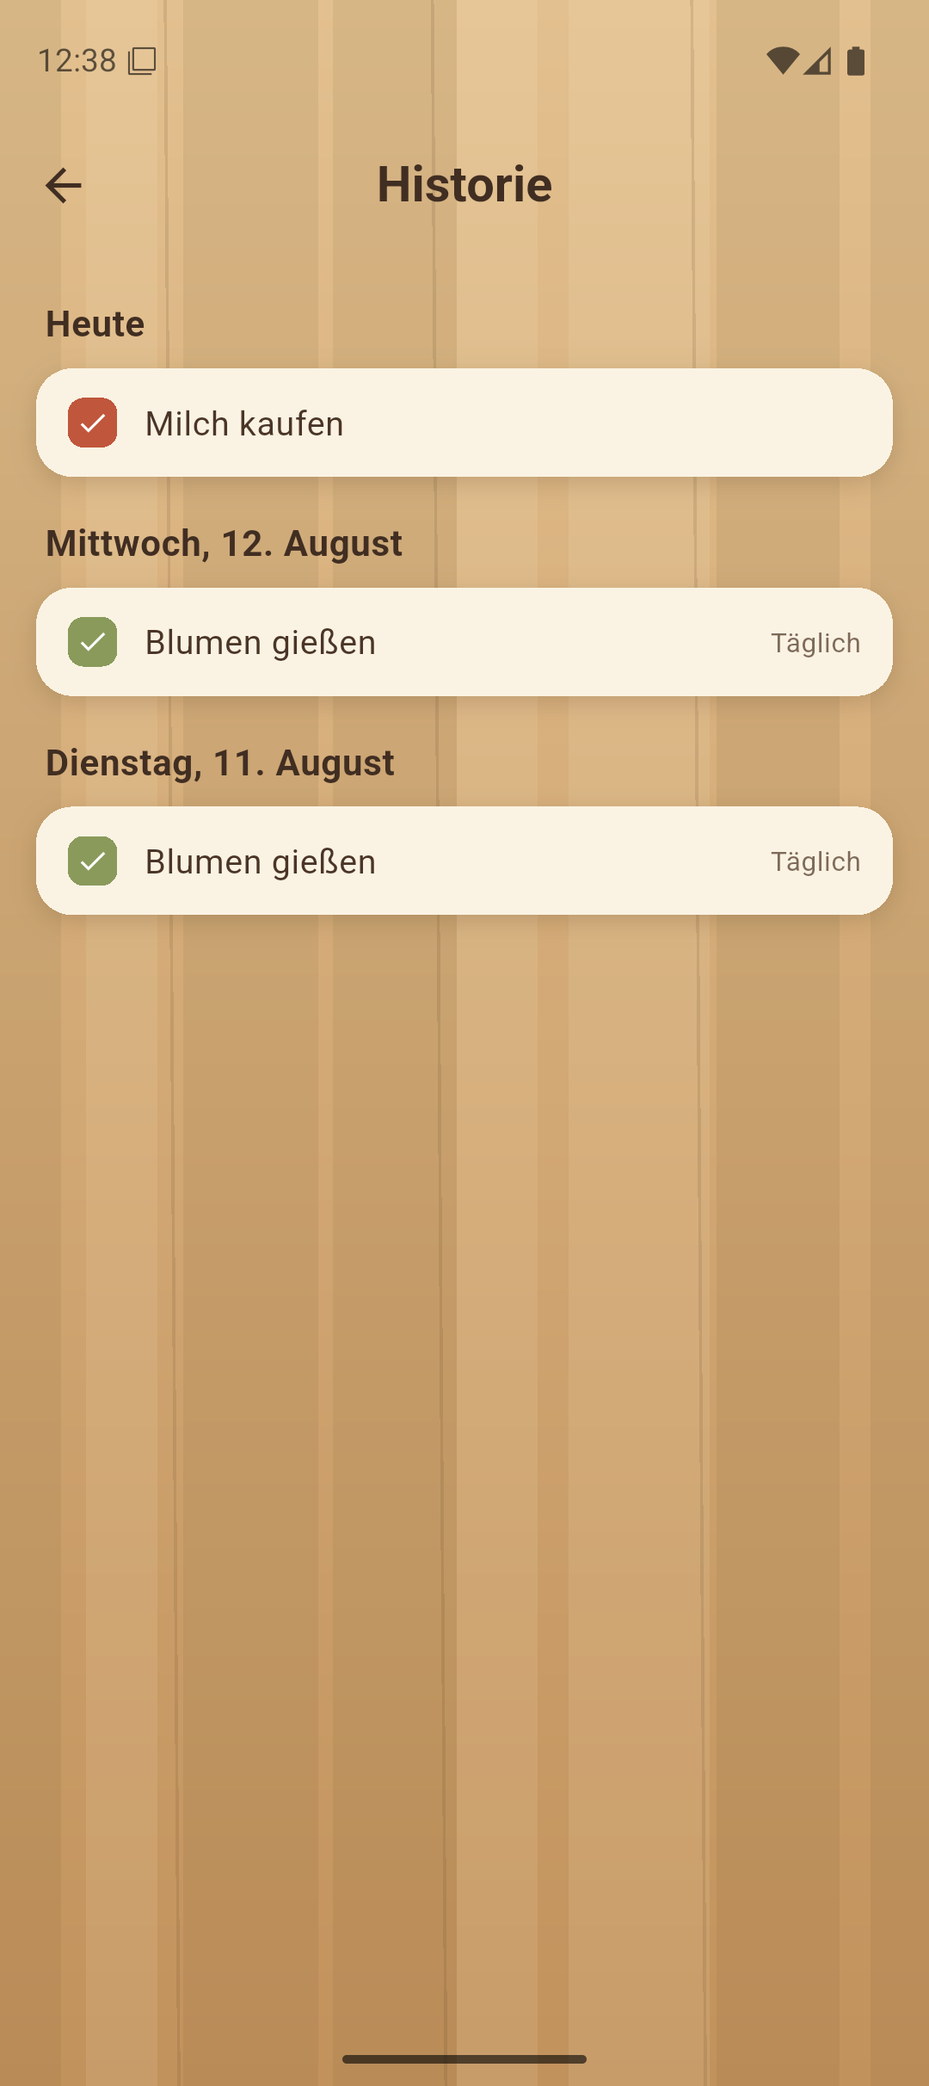
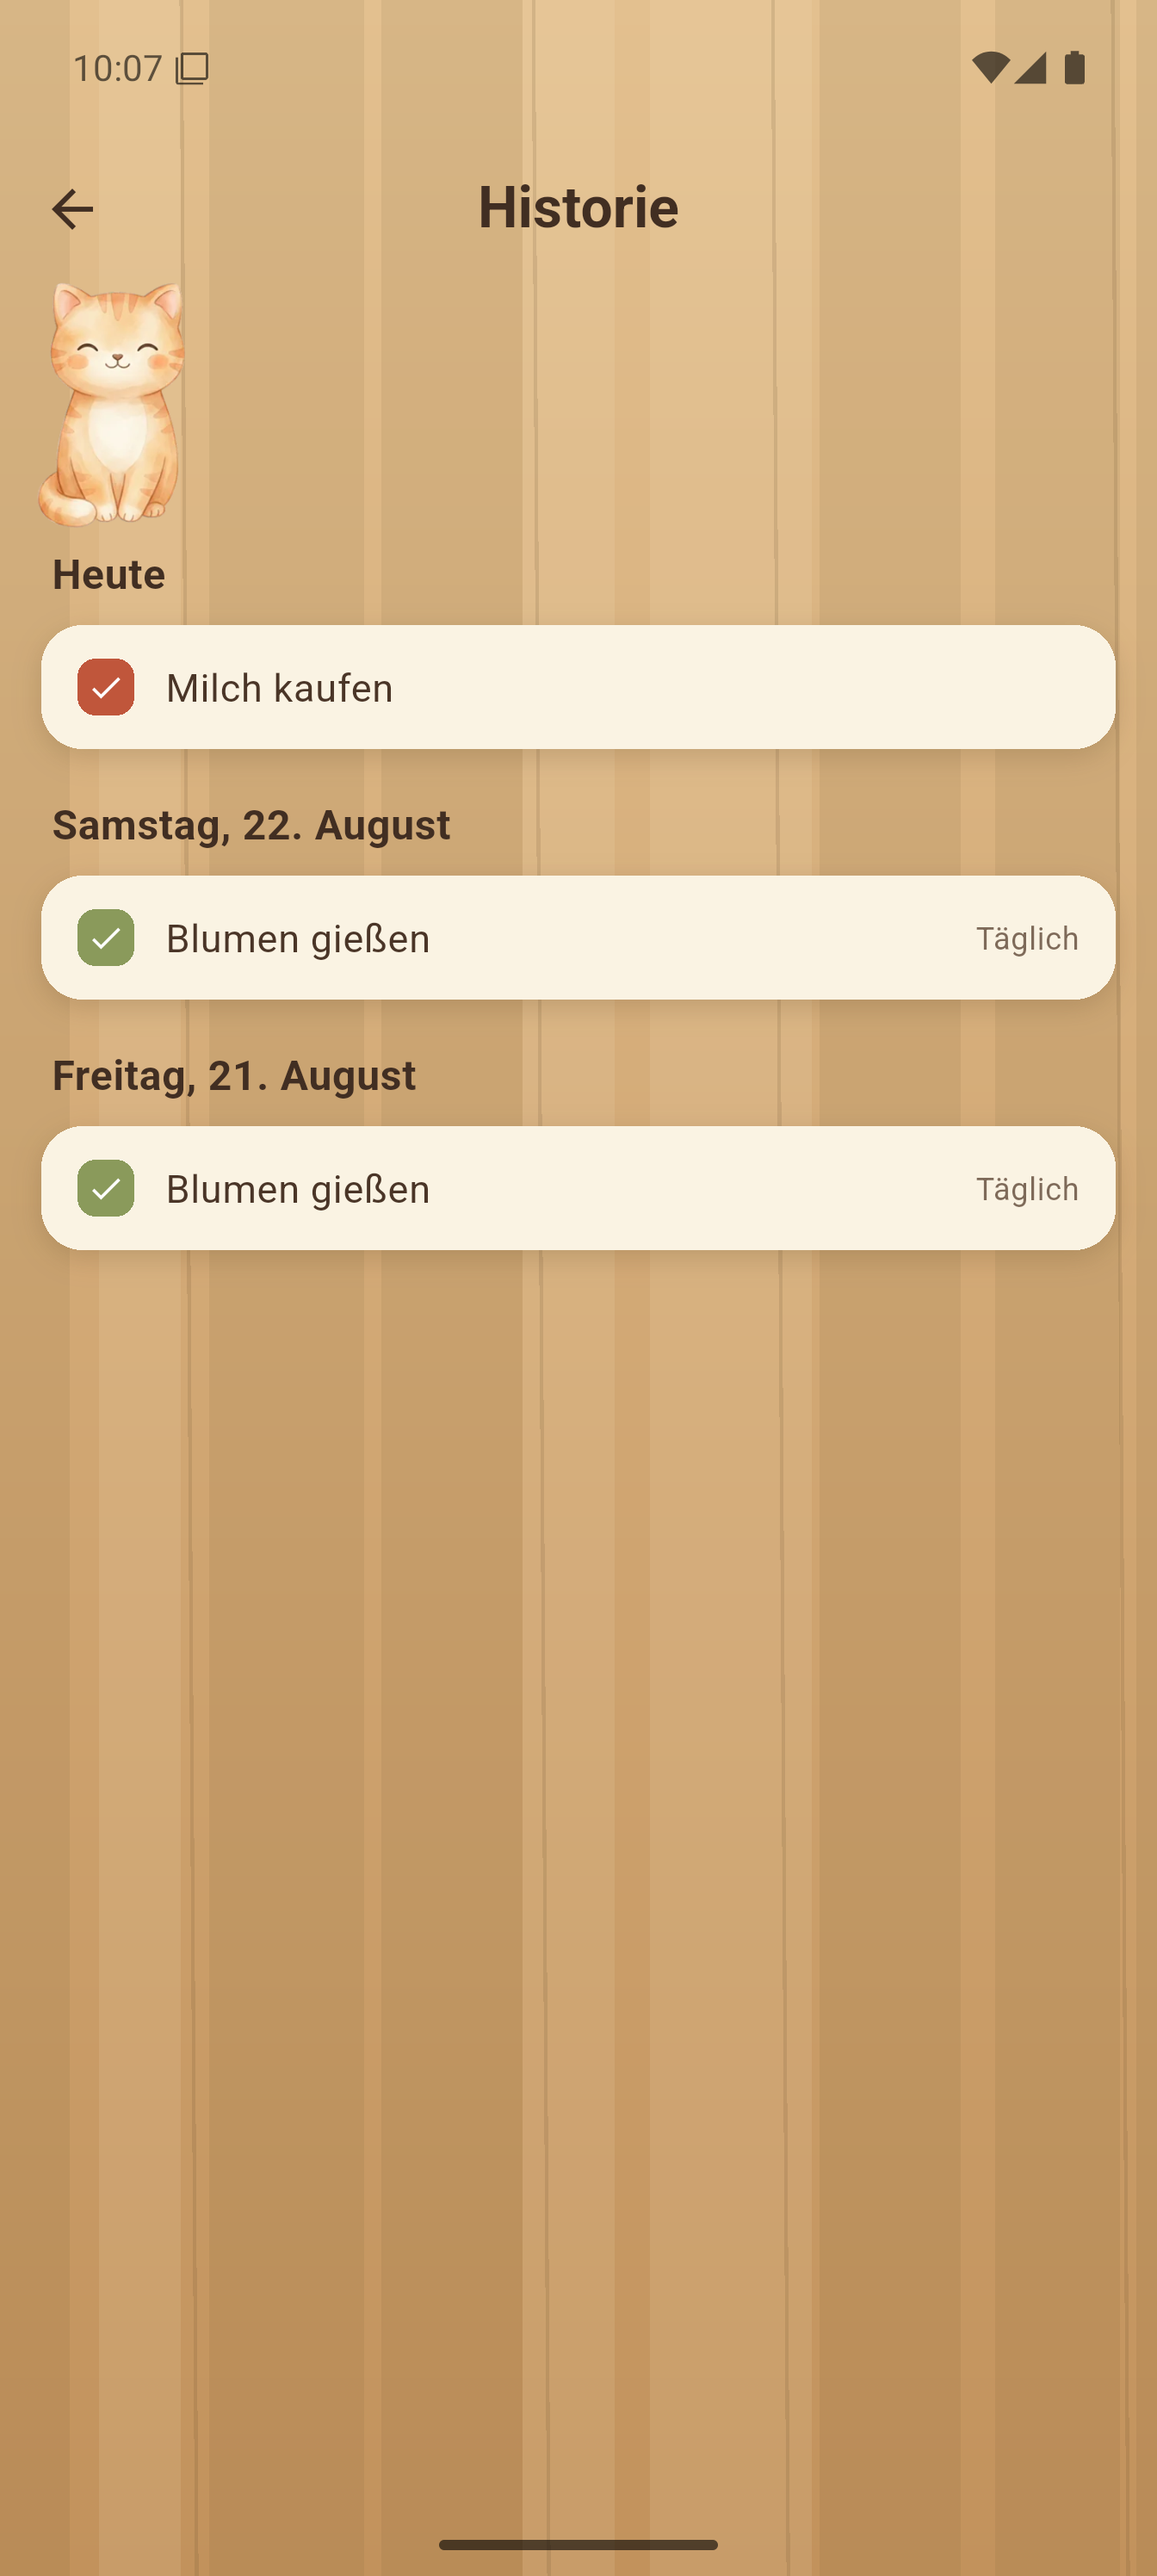
joe-todo: Leere Zustaende stehen auf Papier
Joe malt seinen Hintergrund selbst - vier gemalte Texturen und elf Fotos.
Damit gibt es genau zwei Sorten Text: auf einer PaperCard, dort gilt die
Tintenfarbe des Designs, oder frei auf dem Hintergrund, dort gilt onBg samt
Halo. Die Leer-Hinweise von Notizen und Historie standen frei auf dem
Hintergrund in der Tintenfarbe und waren auf dem Ozean-Design praktisch
nicht zu lesen.

Beide stehen jetzt auf einer Karte, wie die von Aufgaben, Terminen,
Kalender und Uebersicht. legibility_test prueft das fuer jeden leeren
Zustand und misst nebenbei den Kontrast von Tinte auf Papier fuer alle 15
Designs.

Claude-Session: https://claude.ai/code/session_01GTTHh3KS7ZpoGwavN3S3nZ

Changed region(s): [[0.0306, 0.0, 0.9778, 1.0], [0.825, 0.0, 0.9472, 0.0309], [0.0611, 0.0, 0.1833, 0.0309]]

diff --git a/software/joe-todo/app/test/legibility_test.dart b/software/joe-todo/app/test/legibility_test.dart
@@ -1,0 +1,129 @@
+import 'package:flutter/material.dart';
+import 'package:flutter_test/flutter_test.dart';
+
+import 'package:joe_todo/main.dart';
+import 'package:joe_todo/models.dart';
+import 'package:joe_todo/theme.dart';
+import 'package:joe_todo/widgets.dart';
+
+/// Lesbarkeit auf jedem Untergrund.
+///
+/// Joe malt seinen Hintergrund selbst – vier gemalte Texturen und elf Fotos.
+/// Damit gibt es genau zwei Sorten Text: auf einer [PaperCard] (dort gilt
+/// die Tintenfarbe des Designs) oder frei auf dem Hintergrund (dort gilt
+/// `theme.onBg` samt Halo). Wer die Tintenfarbe frei auf den Hintergrund
+/// setzt, bekommt auf einem Foto genau das, was uns aufgefallen ist: Text,
+/// der praktisch verschwindet – auf dem Ozean-Design war der Leer-Hinweis
+/// der Historie nicht mehr zu lesen.
+void main() {
+  Future<AppState> pump(WidgetTester tester, {AppState? state}) async {
+    tester.view.devicePixelRatio = 1;
+    tester.view.physicalSize = const Size(560, 1200);
+    addTearDown(tester.view.reset);
+
+    final appState = state ??
+        (AppState()
+          ..tasks = []
+          ..appointments = []
+          ..notes = []
+          ..showPet = false);
+    await tester.pumpWidget(JoeApp(state: appState));
+    await tester.pumpAndSettle();
+    return appState;
+  }
+
+  Future<void> open(WidgetTester tester, String tab) async {
+    await tester.tap(find.text(tab));
+    await tester.pumpAndSettle();
+  }
+
+  /// Ob [text] in einer PaperCard steht – also auf Papier und nicht auf dem
+  /// Hintergrundbild.
+  void expectOnPaper(WidgetTester tester, Finder text) {
+    expect(text, findsOneWidget);
+    expect(
+      find.ancestor(of: text, matching: find.byType(PaperCard)),
+      findsWidgets,
+      reason: 'Text ohne Karte auf dem Hintergrund – auf einem Foto-Design '
+          'waere er nicht zu lesen',
+    );
+  }
+
+  group('Leere Zustaende stehen auf Papier', () {
+    testWidgets('Aufgaben', (tester) async {
+      await pump(tester);
+      await open(tester, 'Aufgaben');
+      expectOnPaper(tester, find.textContaining('Noch keine Aufgaben'));
+    });
+
+    testWidgets('Termine', (tester) async {
+      await pump(tester);
+      await open(tester, 'Termine');
+      expectOnPaper(tester, find.textContaining('Noch keine Termine'));
+    });
+
+    testWidgets('Notizen', (tester) async {
+      await pump(tester);
+      await open(tester, 'Notizen');
+      expectOnPaper(tester, find.textContaining('Noch keine Notizen'));
+    });
+
+    testWidgets('Historie', (tester) async {
+      await pump(tester);
+      await open(tester, 'Historie');
+      expectOnPaper(tester, find.textContaining('Noch nichts erledigt'));
+    });
+
+    testWidgets('Dashboard: nichts zu tun, keine Termine', (tester) async {
+      await pump(tester);
+      expectOnPaper(tester, find.textContaining('Alles erledigt'));
+      expectOnPaper(tester, find.textContaining('Heute keine Termine'));
+    });
+
+    testWidgets('Kalender: leerer Tag', (tester) async {
+      await pump(tester);
+      await open(tester, 'Kalender');
+      expectOnPaper(tester, find.textContaining('Nichts eingetragen'));
+    });
+  });
+
+  group('Die Farben der Designs', () {
+    test('jedes Design trennt Papier, Tinte und Hintergrundtext', () {
+      for (final theme in joeThemes) {
+        // Auf dem Hintergrund gilt onBg – und die Foto-Designs bekommen
+        // zusaetzlich einen Halo, weil ein Foto hell *und* dunkel ist.
+        if (theme.backgroundAsset != null) {
+          expect(
+            theme.onBgShadows,
+            isNotEmpty,
+            reason: '${theme.name}: Text auf dem Foto braucht seinen Halo',
+          );
+        }
+        // Tinte auf Papier muss sich von der Papierfarbe abheben.
+        expect(
+          _contrast(theme.ink, theme.paper),
+          greaterThan(4.5),
+          reason: '${theme.name}: Tinte auf Papier zu blass',
+        );
+        // Die leise Tinte darf blasser sein, aber nicht beliebig: sie
+        // traegt Datumszeilen, "offen seit" und die Leer-Hinweise.
+        expect(
+          _contrast(theme.inkSoft, theme.paper),
+          greaterThan(3.0),
+          reason: '${theme.name}: leise Tinte auf Papier zu blass',
+        );
+      }
+    });
+  });
+}
+
+/// Kontrastverhaeltnis nach WCAG (1 = gleich, 21 = Schwarz auf Weiss).
+double _contrast(Color a, Color b) {
+  final la = _luminance(a);
+  final lb = _luminance(b);
+  final hell = la > lb ? la : lb;
+  final dunkel = la > lb ? lb : la;
+  return (hell + 0.05) / (dunkel + 0.05);
+}
+
+double _luminance(Color c) => Color(c.toARGB32()).computeLuminance();

diff --git a/software/joe-todo/app/lib/screens/notes.dart b/software/joe-todo/app/lib/screens/notes.dart
@@ -14,23 +14,56 @@ class NotesScreen extends StatelessWidget {
 
   @override
   Widget build(BuildContext context) {
+    const page = PetPage.notes;
+    final theme = joeThemeOf(context);
+
+    return JoeScaffold(
+      page: page,
+      title: 'Notizen',
+      body: SafeArea(child: _notesList(context, page)),
+      floatingActionButton: FloatingActionButton(
+        backgroundColor: theme.accent,
+        foregroundColor: Colors.white,
+        tooltip: 'Neue Notiz',
+        onPressed: () => _openNote(context, null),
+        child: const Icon(Icons.edit_outlined),
+      ),
+    );
+  }
+
+  Widget _notesList(BuildContext context, PetPage page) {
     final state = AppScope.of(context);
     final theme = joeThemeOf(context);
     final notes = state.notes;
 
-    return JoeScaffold(
-      title: 'Notizen',
-      body: SafeArea(
-        child: notes.isEmpty
-            ? Center(
-                child: Text(
-                  'Noch keine Notizen.\nTippe auf den Stift, um loszulegen.',
-                  textAlign: TextAlign.center,
-                  style: TextStyle(color: theme.inkSoft, fontSize: 15),
+    return notes.isEmpty
+            // Auf einer Karte, nicht blank auf dem Hintergrund: die
+            // Papierfarbe des Designs traegt den Text auf jedem Untergrund,
+            // auch auf einem Foto. Frei stehender Text in der Papierfarbe
+            // war auf dem Ozean-Design praktisch unsichtbar. So halten es
+            // auch Aufgaben und Termine.
+            ? ListView(
+                padding: petPadding(
+                  context,
+                  page,
+                  const EdgeInsets.fromLTRB(16, 4, 16, 96),
                 ),
+                children: [
+                  PaperCard(
+                    child: Text(
+                      'Noch keine Notizen. Tippe auf den Stift, um '
+                      'loszulegen.',
+                      style: TextStyle(color: theme.inkSoft, fontSize: 15),
+                    ),
+                  ),
+                ],
               )
             : ListView.builder(
-                padding: const EdgeInsets.fromLTRB(16, 4, 16, 96),
+                padding: petPadding(
+                  context,
+                  page,
+                  const EdgeInsets.fromLTRB(16, 4, 16, 96),
+                ),
                 itemCount: notes.length,
                 itemBuilder: (context, index) {
                   final note = notes[index];
@@ -108,16 +141,7 @@ class NotesScreen extends StatelessWidget {
                     ),
                   );
                 },
-              ),
-      ),
-      floatingActionButton: FloatingActionButton(
-        backgroundColor: theme.accent,
-        foregroundColor: Colors.white,
-        tooltip: 'Neue Notiz',
-        onPressed: () => _openNote(context, null),
-        child: const Icon(Icons.edit_outlined),
-      ),
-    );
+              );
   }
 
   void _openNote(BuildContext context, Note? note) {

diff --git a/software/joe-todo/app/lib/screens/history.dart b/software/joe-todo/app/lib/screens/history.dart
@@ -19,19 +19,37 @@ class HistoryScreen extends StatelessWidget {
       groups.putIfAbsent(e.day, () => []).add(e);
     }
 
+    const page = PetPage.history;
     return JoeScaffold(
+      page: page,
       title: 'Historie',
       body: SafeArea(
         child: entries.isEmpty
-            ? Center(
-                child: Text(
-                  'Noch nichts erledigt.\nAbgehakte Aufgaben erscheinen hier.',
-                  textAlign: TextAlign.center,
-                  style: TextStyle(color: theme.inkSoft, fontSize: 15),
+            // Auf einer Karte, nicht blank auf dem Hintergrund – siehe den
+            // Kommentar in notes.dart: frei stehender Text in der
+            // Papierfarbe verschwindet auf den Foto-Designs.
+            ? ListView(
+                padding: petPadding(
+                  context,
+                  page,
+                  const EdgeInsets.fromLTRB(16, 4, 16, 24),
                 ),
+                children: [
+                  PaperCard(
+                    child: Text(
+                      'Noch nichts erledigt. Abgehakte Aufgaben erscheinen '
+                      'hier.',
+                      style: TextStyle(color: theme.inkSoft, fontSize: 15),
+                    ),
+                  ),
+                ],
               )
             : ListView(
-                padding: const EdgeInsets.fromLTRB(16, 4, 16, 24),
+                padding: petPadding(
+                  context,
+                  page,
+                  const EdgeInsets.fromLTRB(16, 4, 16, 24),
+                ),
                 children: [
                   for (final day in groups.keys) ...[
                     SectionTitle(dateOnly(day) == today()

diff --git a/software/joe-todo/README.md b/software/joe-todo/README.md
@@ -162,14 +162,67 @@ Dashboard, Kalender, wiederkehrenden Aufgaben, Notizen und Historie.
   nach oben wischen räumt sie weg. Bewusst ein Singleton statt einer
   Snackbar: die meisten dieser Meldungen entstehen ohne Bildschirm – ein
   fehlgeschlagener Erinnerungsplan im Hintergrund hat keinen `BuildContext`.
+- **Lesbarkeit** – Joe malt seinen Hintergrund selbst, vier gemalte Texturen
+  und elf Fotos. Damit gibt es genau zwei Sorten Text: auf einer `PaperCard`
+  (dort gilt die Tintenfarbe des Designs) oder frei auf dem Hintergrund
+  (dort gilt `theme.onBg` samt Halo, siehe `SectionTitle`). Wer die
+  Tintenfarbe frei auf den Hintergrund setzt, bekommt auf einem Foto Text,
+  der praktisch verschwindet – die Leer-Hinweise von Notizen und Historie
+  taten das auf dem Ozean-Design. Beide stehen jetzt auf einer Karte, wie
+  die von Aufgaben und Terminen; `legibility_test.dart` prüft das für jeden
+  leeren Zustand und misst nebenbei den Kontrast von Tinte auf Papier für
+  alle 15 Designs.
 - **Design** – vier Notizbuch-Themen mit gemalten Texturen (Holz, Papier,
   Stoff, Aquarell) plus elf Foto-Hintergründe, wählbar über eine Klappliste in
   den Einstellungen; 20 warme frei wählbare Farben pro Aufgabe/Termin. Die
   Reiterfarben der Foto-Designs stehen in der Vorlage (siehe unten). Der
   Hintergrund läuft randlos hinter Status- und Navigationsleiste durch; die
   Systemsymbole richten sich nach dem Design (siehe unten).
-- **Begleiter** – 53 gemalte Tierchen, die oben rechts über der Heute-Karte
-  sitzen. Die Auswahl öffnet sich als Blatt von unten: pro Gruppe (Aquarell,
+- **Begleiter** – 53 gemalte Tierchen, die auf **jeder** Seite mitsitzen,
+  auf jeder an einer anderen Stelle. Gewürfelt wird einmal beim App-Start,
+  und zwar nur **eine Zahl**: der Startwert (`PetPlacement.roll()` in
+  `main()`, er steht im Log, damit sich ein Stand nachstellen lässt). Aus
+  ihm fällt für jede Seite ein Platz – auf dem Dashboard ein anderer als in
+  den Notizen, auf einer Seite aber immer derselbe, solange die App läuft.
+  So entdeckt man das Tierchen beim Blättern überall neu, ohne dass es beim
+  Hin- und Herwechseln zwischen zwei Seiten herumspringt.
+
+  Die Plätze sind nicht irgendwo, sondern **an der UI**: die drei oberen
+  setzen es auf die Oberkante des Inhalts (also auf die erste Karte),
+  `besideFab` neben den Plus-Knopf, die beiden unteren auf die Kante über
+  der Navigationsleiste. Welche davon eine Seite anbietet, steht in
+  `PetPage` – eine Seite ohne Plus bietet den Platz daneben nicht an, eine
+  kurze Seite keinen unteren (dort wäre nur Hintergrund), und die Mitte oben
+  nur dort, wo keine Zahl und keine Überschrift verdeckt würde.
+
+  Es hängt an dem, worauf es sitzt: die Plätze auf der Inhaltskante scrollen
+  **mit der Seite weg** und werden dabei an deren Oberkante abgeschnitten –
+  ein Tierchen, das beim Scrollen an derselben Stelle klebt, wäre kein
+  Aufsitzer mehr, sondern ein Aufkleber auf dem Bildschirm. Die unteren
+  Plätze bleiben stehen, denn Navigationsleiste und Plus-Knopf scrollen auch
+  nicht.
+
+  Den Platz dafür hält **die Seite** frei, innerhalb ihrer Liste
+  (`petPadding(context, page, base)` als deren `padding`) – nicht das
+  Scaffold um die Liste herum. Das ist kein Schönheitsfehler, sondern die
+  Bedingung fürs Mitscrollen: läge der Platz außerhalb, endete der Inhalt an
+  einer Kante weiter unten als das Tierchen, und beim Scrollen liefen zwei
+  Kästen sichtbar aneinander vorbei. `petPadding` nimmt dabei das Größere
+  von normalem Rand und Platzbedarf, nicht die Summe — sonst rutschte die
+  erste Karte unter dem Begleiter weg, und der säße auf nichts mehr.
+
+  Wie tief es oben überlappen darf, sagt die Seite (`PetPage.topOverlap`),
+  gedeckelt auf 12 Punkt: genau der Innenabstand der Karten, also sitzt es
+  auf der Kante und lässt die erste Zeile frei — ein Titel halb hinter einem
+  Dino ist die Karte nicht wert. Im Befinden-Editor sitzt es noch höher,
+  weil dort gleich in der ersten Zeile Datum und Uhrzeit stehen. Es liegt
+  über der Seite, nimmt aber keine Tipps entgegen und trägt keine Semantik
+  (Deko darf keinen Knopf schlucken). Die Motive sind völlig
+  verschieden geschnitten (Lama 130×320 hochkant, Hai 320×196 quer), deshalb
+  steht in `lib/pets.dart` zu jedem sein Seitenverhältnis: `petBox` gibt allen
+  über das geometrische Mittel dieselbe gefühlte Größe, statt sie in eine
+  feste Box zu zwingen, in der der Hai halb so groß wirkte wie das Lama.
+  Die Auswahl öffnet sich als Blatt von unten: pro Gruppe (Aquarell,
   Axos, Dinos & Drachen, KalasStuff, Katzen, Obst, Weihnachten) ein
   aufklappbarer Abschnitt mit den Motiven als Bildraster, immer nur einer
   offen. Ganz abschaltbar; dann ist auch die Auswahl gesperrt.
